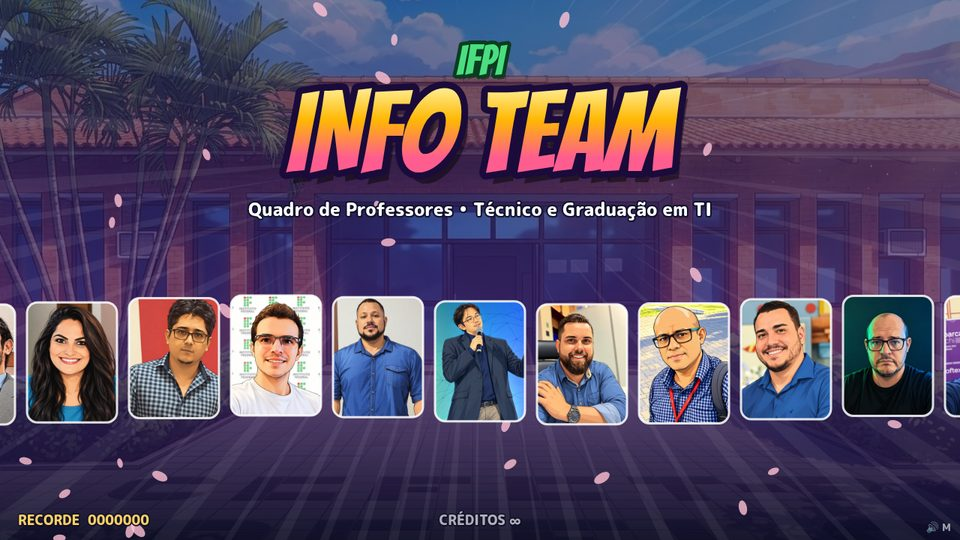
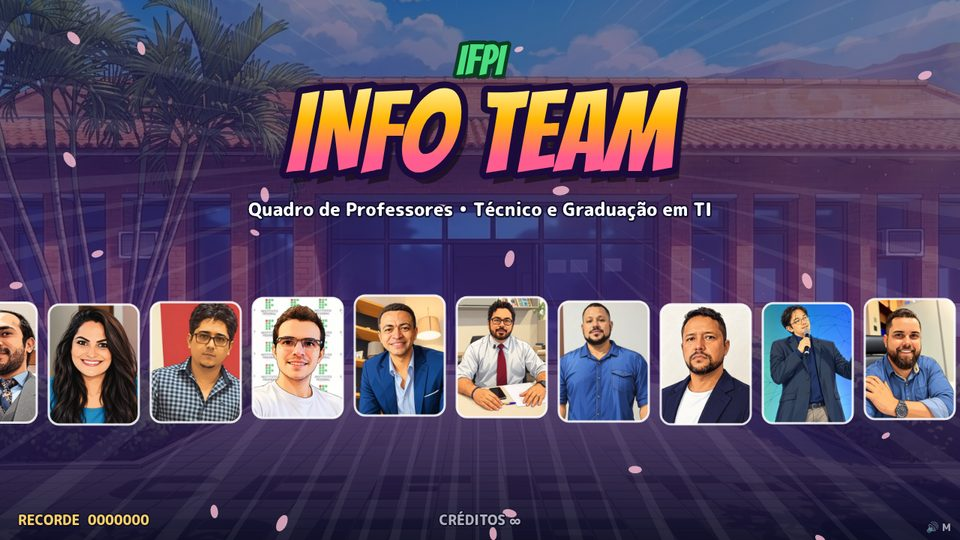
Adiciona quatro professores ao quadro
- Novos professores: Leandro Rodrigues (Metodologia Científica e
  Design Science Research), Magno (Administração e Empreendedorismo),
  Paulo Ferreira (Inglês Técnico) e Rogério Sousa (Estatística e
  Cálculo), com título, habilidades e palavras próprias.
- Retratos em estilo mangá comprimidos para JPG 600x800.
- Campo opcional "rosto" em dados.js para ajustar o recorte do rosto
  quando a foto é mais aberta (usado no retrato do Magno).
- Tela de seleção: até 18 professores em 2 linhas, sem invadir o
  botão ESCOLHER.
- Quadro final: acima de 14 professores, 2 linhas com retratos
  menores para não ultrapassar a tela.
- Tutorial: capturas refeitas com os 18 professores e contagens
  atualizadas.

diff --git a/js/dados.js b/js/dados.js
@@ -9,6 +9,8 @@
  *   cor         → cor do uniforme do personagem e dos destaques
  *   titulo      → frase curta abaixo do nome (ex.: "O Mestre dos Algoritmos")
  *   habilidades → lista exibida no painel ao passar o cursor sobre o professor
+ *   rosto       → (opcional) recorte do rosto [x, y, lado] em frações da imagem,
+ *                 para fotos em que o rosto aparece pequeno. Padrão: [0.12, 0.03, 0.76]
  *   disciplinas → palavras "boas" que caem durante o jogo quando ele é escolhido.
  *                 Se ficar vazia, usa a lista geral PALAVRAS_BOAS.
  *
@@ -70,6 +72,28 @@ const PROFESSORES = [
     disciplinas: ['SQL', 'SELECT', 'JOIN', 'Modelo ER', 'Normalização', 'Chave Primária', 'TDD', 'Teste Unitário', 'POO', 'Herança'],
   },
   {
+    nome: 'Leandro Rodrigues', foto: 'assets/professores/Leandro Rodrigues_manga.jpg', cor: '#5e548e',
+    titulo: 'O Doutor da Metodologia',
+    habilidades: [
+      'Metodologia Científica: problema, objetivos e método no lugar certo',
+      'Design Science Research: projetos de TI viram artefatos com rigor científico',
+      'Administração: une gestão e tecnologia para resolver problemas reais',
+      'Doutor e PhD: orienta TCCs do problema à avaliação do artefato',
+    ],
+    disciplinas: ['Metodologia', 'Design Science', 'Artefato', 'Problema', 'Objetivos', 'Hipótese', 'Referencial Teórico', 'ABNT', 'Avaliação', 'Administração'],
+  },
+  {
+    nome: 'Magno', foto: 'assets/professores/Magno_manga.jpg', cor: '#bc6c25', rosto: [0.28, 0.02, 0.42],
+    titulo: 'O Líder Empreendedor',
+    habilidades: [
+      'Administração e Empreendedorismo: do plano de negócios à liderança',
+      'Agenda dupla: concilia a sala de aula com a vida pública da cidade',
+      'Golpe especial: “Atividade Extra” — a turma nunca fica parada',
+      'Orientação de TCC: projetos que geram impacto na comunidade',
+    ],
+    disciplinas: ['Administração', 'Empreendedorismo', 'Liderança', 'Planejamento', 'Plano de Negócios', 'Gestão Pública', 'Marketing', 'Negociação', 'Comunidade', 'Projeto'],
+  },
+  {
     nome: 'Marcony Santana', foto: 'assets/professores/Marcony Santana_manga.jpg', cor: '#4361ee',
     titulo: 'O Senhor das Redes',
     habilidades: [
@@ -79,6 +103,17 @@ const PROFESSORES = [
       'Extensão Curricular: leva a TI para a comunidade',
     ],
     disciplinas: ['TCP/IP', 'Modelo OSI', 'Roteador', 'Switch', 'DNS', 'HTTP', 'Endereço IP', 'CPU', 'Memória RAM', 'Extensão'],
+  },
+  {
+    nome: 'Paulo Ferreira', foto: 'assets/professores/Paulo Ferreira_manga.jpg', cor: '#06a77d',
+    titulo: 'O Tradutor do Código',
+    habilidades: [
+      'Inglês Técnico: decifra documentação, manuais e mensagens de erro',
+      'Mostra que todo código fala inglês: if, for, while, return',
+      'Prepara os calouros para ler em inglês desde o início do curso',
+      'Orientação de TCC: revisa o abstract e as referências internacionais',
+    ],
+    disciplinas: ['Reading', 'Vocabulary', 'Grammar', 'Cognatos', 'Skimming', 'Scanning', 'Abstract', 'Keywords', 'Documentation', 'Listening'],
   },
   {
     nome: 'Rafael Leite', foto: 'assets/professores/Rafael-Leite_manga.jpg', cor: '#22223b',
@@ -123,6 +158,17 @@ const PROFESSORES = [
       'Informática Aplicada à Eletromecânica',
     ],
     disciplinas: ['IA', 'Machine Learning', 'Rede Neural', 'Mobile', 'Front-End', 'React', 'Interface', 'Computação', 'Dataset'],
+  },
+  {
+    nome: 'Rogério Sousa', foto: 'assets/professores/Rogerio Sousa_manga.jpg', cor: '#7209b7',
+    titulo: 'O Calculista das Probabilidades',
+    habilidades: [
+      'Cálculo: limites, derivadas e integrais que viram ferramenta de programador',
+      'Estatística: média, desvio padrão e probabilidade para entender os dados',
+      'Prepara os calouros com a base matemática do início do curso',
+      'Orientação de TCC: põe números, gráficos e análise nos resultados',
+    ],
+    disciplinas: ['Limite', 'Derivada', 'Integral', 'Função', 'Média', 'Mediana', 'Desvio Padrão', 'Probabilidade', 'Amostra', 'Gráfico'],
   },
   {
     nome: 'Ronaldo Borges', foto: 'assets/professores/Ronaldo Borges_manga.jpg', cor: '#212529',

diff --git a/js/jogo.js b/js/jogo.js
@@ -56,7 +56,11 @@ function carregarImagem(src) {
     i.src = src;
   });
 }
-const rosto = (img) => [img.width * 0.12, img.height * 0.03, img.width * 0.76, img.width * 0.76];
+// recorte quadrado do rosto: [x, y, lado] em frações da largura/altura (ajustável por professor em dados.js)
+const rosto = (img) => {
+  const [x, y, lado] = img.recorteRosto || [0.12, 0.03, 0.76];
+  return [img.width * x, img.height * y, img.width * lado, img.width * lado];
+};
 
 // ---------- Entrada: teclado, mouse e toque ----------
 const teclas = new Set();
@@ -209,14 +213,14 @@ const BOTAO_ESCOLHER = { x: 1000, y: 560, w: 240, h: 64 };
 
 function layoutGrade() {
   const n = PROFESSORES.length;
-  const linhas = n <= 8 ? 1 : n <= 16 ? 2 : 3;
+  const linhas = n <= 8 ? 1 : n <= 18 ? 2 : 3;
   const cols = Math.ceil(n / linhas);
   const gap = 10;
   const areaW = 1200, areaH = 228;
   let cw = Math.min((areaW - gap * (cols - 1)) / cols, ((areaH - gap * (linhas - 1)) / linhas) * 0.75);
   const ch = cw / 0.75;
   const totalW = cols * cw + (cols - 1) * gap;
-  const x0 = (W - totalW) / 2, y0 = 440;
+  const x0 = Math.min((W - totalW) / 2, BOTAO_ESCOLHER.x - 20 - totalW), y0 = 440;   // não invade o botão
   const celulas = PROFESSORES.map((_, i) => {
     const l = Math.floor(i / cols), c = i % cols;
     const naLinha = Math.min(cols, n - l * cols);
@@ -1305,8 +1309,10 @@ function desenharFinal(dt) {
   texto('QUADRO DE PROFESSORES', W / 2, 70, { tam: 64, fonte: FONTE_TITULO, alinha: 'center', cor: gradiente(20, 70, [[0, '#fff6a8'], [1, '#ffb703']]), contorno: '#1a0b3b', espessura: 10 });
   texto('Informática • IFPI', W / 2, 106, { tam: 22, alinha: 'center', cor: '#ffc2d4' });
   const n = PROFESSORES.length;
-  const cols = Math.min(7, n), linhasG = Math.ceil(n / cols);
-  const cw = 132, ch = 176, gapX = 40, gapY = 64;
+  // até 14 professores: 2 linhas de 7; acima disso, 2 linhas com retratos menores
+  const cols = n <= 14 ? Math.min(7, n) : Math.ceil(n / 2), linhasG = Math.ceil(n / cols);
+  const gapX = cols > 7 ? 24 : 40, gapY = 64;
+  const cw = Math.min(132, Math.floor((W - 60 - (cols - 1) * gapX) / cols)), ch = Math.round(cw * 4 / 3);
   const totalW = cols * cw + (cols - 1) * gapX;
   PROFESSORES.forEach((p, i) => {
     const l = Math.floor(i / cols), c = i % cols;
@@ -1349,7 +1355,7 @@ async function iniciar() {
   ]).catch(() => {});
   const limite = new Promise((ok) => setTimeout(ok, 2500));   // não trava se estiver offline
   const [profs, fases] = await Promise.all([
-    Promise.all(PROFESSORES.map((p) => carregarImagem(p.foto))),
+    Promise.all(PROFESSORES.map((p) => carregarImagem(p.foto).then((i) => { if (i && p.rosto) i.recorteRosto = p.rosto; return i; }))),
     Promise.all(FASES.map((f) => carregarImagem(f.fundo))),
     Promise.race([fontes, limite]),
   ]);

diff --git a/tutorial.html b/tutorial.html
@@ -536,7 +536,7 @@ with torch.no_grad():                                     # só inferência, sem
 y = ((y + 1) * 127.5).permute(1, 2, 0).byte().numpy()     # volta para 0..255
 Image.fromarray(y).save('assets/professores/fulano.jpg')</script></div>
           <h4 style="margin-top:22px">Versão 2: arte refinada em estilo mangá</h4>
-          <p>Na segunda versão do jogo, os 14 retratos e os cenários foram refeitos com <strong>IA generativa de imagens</strong>. O traço ficou mais limpo, as cores mais vivas e os rostos mais fiéis às fotos. O campus também ganhou novos ambientes (Entrada, Área Verde, Garagem e Bloco J), e o jogo passou de cinco para <strong>seis fases</strong>.</p>
+          <p>Na segunda versão do jogo, os retratos e os cenários foram refeitos com <strong>IA generativa de imagens</strong>. O traço ficou mais limpo, as cores mais vivas e os rostos mais fiéis às fotos. O campus também ganhou novos ambientes (Entrada, Área Verde, Garagem e Bloco J), e o jogo passou de cinco para <strong>seis fases</strong>.</p>
           <div class="antes-depois">
             <figure><img src="assets/tutorial/retrato-v1.jpg" alt="Retrato na versão 1, convertido com AnimeGAN" loading="lazy"><span class="rotulo">VERSÃO 1</span></figure>
             <figure><img src="assets/tutorial/retrato-v2.jpg" alt="O mesmo professor na versão 2, em estilo mangá" loading="lazy"><span class="rotulo" style="color:var(--amarelo)">VERSÃO 2</span></figure>
@@ -683,7 +683,7 @@ function atualizar(dt) {
     ],
     disciplinas: ['SQL', 'SELECT', 'JOIN', 'Modelo ER', 'Normalização', 'TDD'],
   },
-  // ... mais 13 professores
+  // ... mais 17 professores
 ];
 
 const FASES = [
